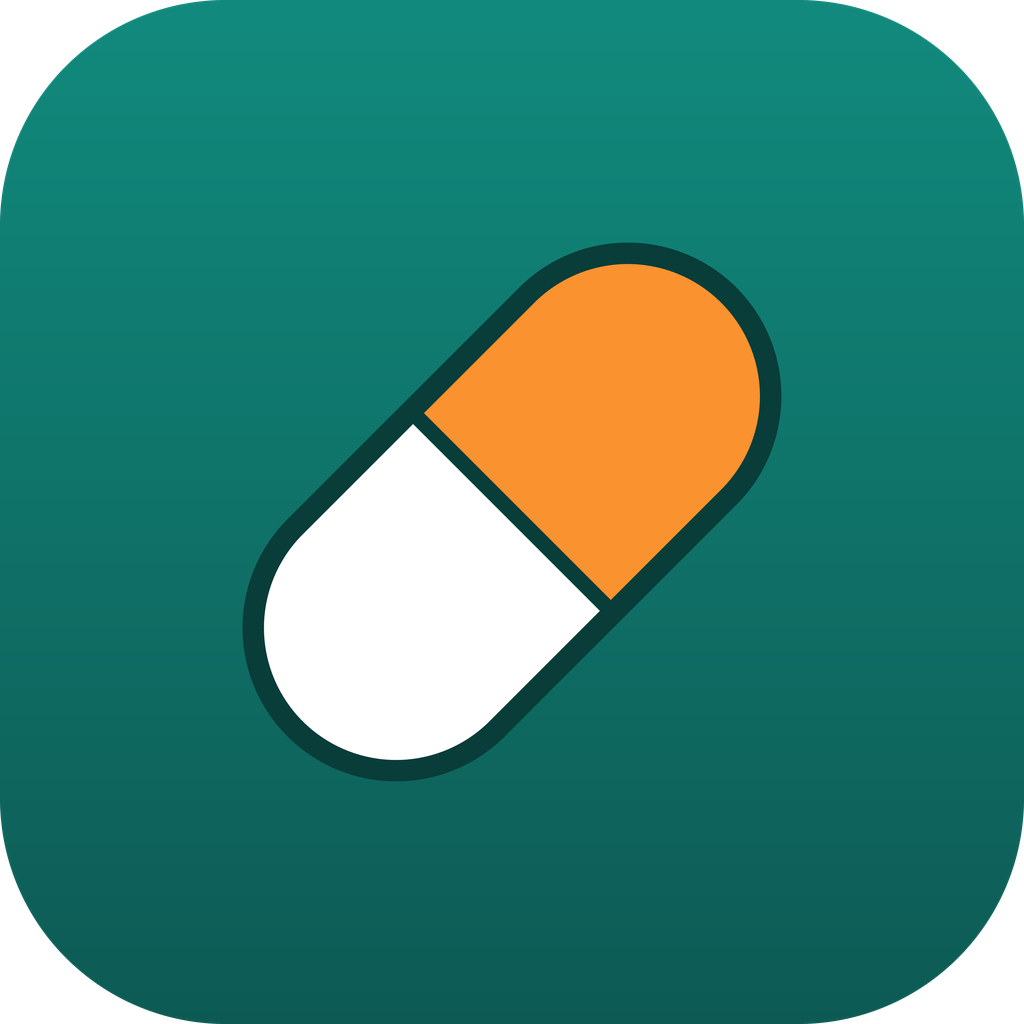
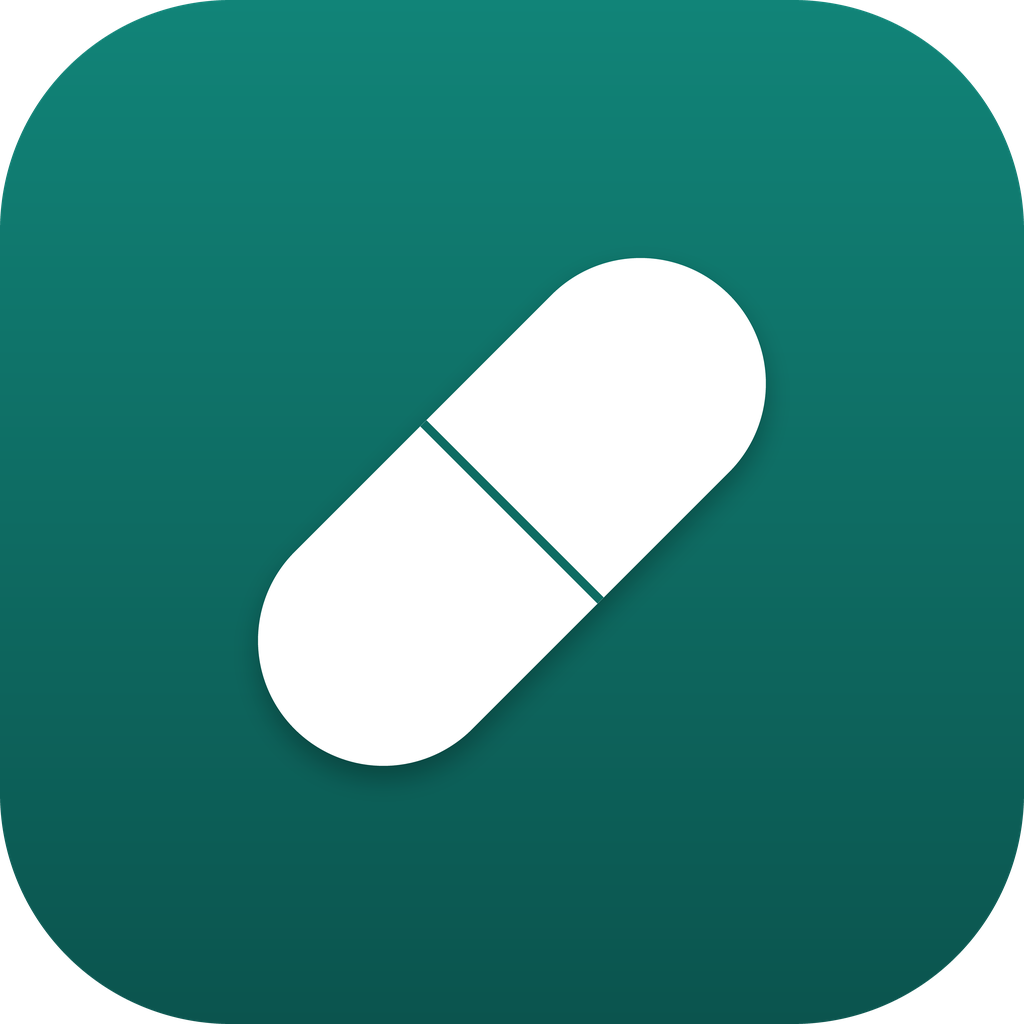
Icone du Bureau : un visuel plus sobre (v3.8)
La premiere version faisait dessin anime : gelule bicolore blanc/orange,
gros contour noir, motif occupant presque toute la tuile. Trois couleurs
et un liseré sombre sur une forme blanche, c'est le vocabulaire de
l'autocollant, pas celui d'une icone de bureau.

Le visuel passe en monochrome : un seul motif blanc sur l'aplat turquoise
de l'application, sans contour ni seconde couleur, et du vide autour. Le
relief vient d'une ombre portee tres douce plutot que d'un trait. Le seul
detail interieur — la jonction des deux demi-coques — est un trait fin
dans le ton du fond, qui disparait de lui-meme en 16 px ou la gelule doit
de toute facon se lire comme une seule forme.

Motif inchange : c'est toujours la gelule de l'onglet du navigateur.
Le fichier livre, les sept tailles et la repartition DIB / PNG ne bougent
pas non plus — seul le dessin change.

Claude-Session: https://claude.ai/code/session_01Wv1j3GUYQXLLcxAhUJVywE

Changed region(s): [[0.2188, 0.2188, 0.7812, 0.75], [0.4062, 0.75, 0.4375, 0.7812]]

diff --git a/outils/creer_icone.py b/outils/creer_icone.py
@@ -1,5 +1,5 @@
 # -*- coding: utf-8 -*-
-"""Fabrique l'icône de l'application (💊 sur fond turquoise).
+"""Fabrique l'icône de l'application : une gélule blanche sur turquoise.
 
 Outil de développement : le résultat (``pharmacie.ico`` et ``pharmacie.png``)
 est versionné dans le dépôt, de sorte que le poste de la pharmacie n'a
@@ -10,6 +10,11 @@ Le motif est **dessiné**, pas copié d'une police emoji : une police couleur
 (NotoColorEmoji) n'existe qu'en une seule taille de bitmap, et la réduction à
 16 px — la taille utilisée dans la barre des tâches Windows — donne une bouillie
 illisible. Un tracé vectoriel reste net à toutes les tailles.
+
+Parti pris graphique : **monochrome**. Un seul motif blanc sur l'aplat
+turquoise de l'application, sans contour noir ni seconde couleur, et du vide
+autour. Le relief vient d'une ombre portée très douce, pas d'un trait — c'est
+ce qui distingue une icône d'un pictogramme de dessin animé.
 
 Usage :
 
@@ -23,19 +28,21 @@ import struct
 import sys
 from pathlib import Path
 
-from PIL import Image, ImageDraw
+from PIL import Image, ImageDraw, ImageFilter
 
 RACINE = Path(__file__).resolve().parent.parent
 
 #: Turquoise de l'application (bandeau et onglet actif) : le raccourci du
 #: bureau doit se reconnaître d'un coup d'œil comme « la même chose » que
-#: l'écran qui s'ouvre.
-FOND_HAUT = (17, 138, 125)
-FOND_BAS = (13, 90, 84)
+#: l'écran qui s'ouvre. Léger dégradé vertical, juste assez pour que la
+#: tuile ne soit pas plate.
+FOND_HAUT = (17, 132, 120)
+FOND_BAS = (11, 84, 78)
 
 BLANC = (255, 255, 255)
-AMBRE = (249, 146, 47)
-CONTOUR = (8, 61, 57)
+#: Séparation des deux demi-coques : un trait dans le ton du fond, jamais du
+#: noir — un liseré sombre sur une forme blanche fait aussitôt « autocollant ».
+SEPARATION = (13, 108, 99)
 
 #: Tailles inscrites dans le .ico. Windows pioche celle qui lui convient :
 #: 16 dans la barre des tâches, 32 dans l'explorateur, 256 en grandes
@@ -66,7 +73,7 @@ def _fond(cote: int) -> Image.Image:
 
     masque = Image.new("L", (cote, cote), 0)
     ImageDraw.Draw(masque).rounded_rectangle(
-        (0, 0, cote - 1, cote - 1), radius=round(cote * 0.22), fill=255)
+        (0, 0, cote - 1, cote - 1), radius=round(cote * 0.225), fill=255)
 
     image = Image.new("RGBA", (cote, cote), (0, 0, 0, 0))
     image.paste(degrade, (0, 0), masque)
@@ -74,48 +81,54 @@ def _fond(cote: int) -> Image.Image:
 
 
 def _gelule(longueur: int, epaisseur: int) -> Image.Image:
-    """Gélule horizontale : moitié blanche, moitié ambre, sur fond transparent.
+    """Gélule horizontale, blanche, sur fond transparent.
 
     Dessinée à plat puis tournée par l'appelant — une rotation de l'image
     entière est bien plus simple (et plus propre) qu'un tracé oblique.
     """
-    marge = round(epaisseur * 0.12)      # place pour le contour, non rogné
+    marge = 4                       # évite que la rotation rogne les bords
     taille = (longueur + 2 * marge, epaisseur + 2 * marge)
     boite = (marge, marge, marge + longueur - 1, marge + epaisseur - 1)
-    rayon = epaisseur // 2
-    milieu = marge + longueur // 2
-
-    # Les deux demi-coques sont découpées dans UNE seule silhouette, par
-    # masque : dessiner deux rectangles arrondis mitoyens laisserait un
-    # liseré transparent au raccord, visible dès la réduction en 32 px.
-    silhouette = Image.new("L", taille, 0)
-    ImageDraw.Draw(silhouette).rounded_rectangle(boite, radius=rayon, fill=255)
-    demi_droite = silhouette.copy()
-    ImageDraw.Draw(demi_droite).rectangle((0, 0, milieu, taille[1]), fill=0)
 
     image = Image.new("RGBA", taille, (0, 0, 0, 0))
-    image.paste(BLANC, mask=silhouette)
-    image.paste(AMBRE, mask=demi_droite)
-
-    # Le trait de séparation des deux demi-coques, puis le contour général :
-    # sans eux, la gélule blanche se fond dans les fortes réductions.
     trace = ImageDraw.Draw(image)
-    trace.line((milieu, boite[1], milieu, boite[3]),
-               fill=CONTOUR, width=round(epaisseur * 0.05))
-    trace.rounded_rectangle(boite, radius=rayon, outline=CONTOUR,
-                            width=round(epaisseur * 0.07))
+    trace.rounded_rectangle(boite, radius=epaisseur // 2, fill=BLANC)
+
+    # Le seul détail intérieur : la jonction des deux demi-coques. Un trait
+    # fin, dans le ton du fond — il disparaît de lui-même en 16 px, où la
+    # gélule doit de toute façon se lire comme une seule forme.
+    milieu = marge + longueur // 2
+    trace.line((milieu, boite[1] + 1, milieu, boite[3] - 1),
+               fill=SEPARATION, width=max(2, round(epaisseur * 0.035)))
     return image
+
+
+def _ombre(motif: Image.Image, cote: int) -> tuple:
+    """Ombre portée très douce du motif, et son décalage vertical.
+
+    Elle détache la gélule du fond sans ajouter le moindre trait : c'est ce
+    qui remplace le contour noir de la première version.
+    """
+    ombre = Image.new("RGBA", motif.size, (0, 0, 0, 0))
+    ombre.paste((0, 0, 0, 70), mask=motif.split()[3])
+    return (ombre.filter(ImageFilter.GaussianBlur(cote * 0.012)),
+            round(cote * 0.012))
 
 
 def construire(cote: int = COTE) -> Image.Image:
     """Icône complète, en RGBA, au côté demandé."""
     grand = cote * SUR_ECHANTILLON
-    image = _fond(grand)
 
-    gelule = _gelule(round(grand * 0.62), round(grand * 0.30))
+    gelule = _gelule(round(grand * 0.60), round(grand * 0.245))
     gelule = gelule.rotate(45, resample=Image.BICUBIC, expand=True)
-    image.alpha_composite(gelule, (
-        (grand - gelule.width) // 2, (grand - gelule.height) // 2))
+    motif = Image.new("RGBA", (grand, grand), (0, 0, 0, 0))
+    motif.alpha_composite(gelule, ((grand - gelule.width) // 2,
+                                   (grand - gelule.height) // 2))
+
+    image = _fond(grand)
+    ombre, decalage = _ombre(motif, grand)
+    image.alpha_composite(ombre, (0, decalage))
+    image.alpha_composite(motif)
 
     return image.resize((cote, cote), Image.LANCZOS)
 

diff --git a/app.py b/app.py
@@ -56,7 +56,7 @@ _journal = logging.getLogger("pharmacie.app")
 
 # Version affichée dans le bandeau : permet de vérifier d'un coup d'œil que
 # la bonne version tourne (utile après une mise à jour du dossier local).
-VERSION_APP = "3.7"
+VERSION_APP = "3.8"
 
 # Dossier des données de la pharmacie : celui du programme par défaut,
 # déplaçable par la variable d'environnement PHARMACIE_DONNEES (cf.

diff --git a/README.md b/README.md
@@ -501,6 +501,11 @@ Au **tout premier** lancement, `lancer.bat` pose sur le Bureau une icône
 turquoise de l'application. Un double-clic dessus ouvre l'utilitaire : plus
 besoin de retrouver le dossier.
 
+Le visuel est **monochrome** : un seul motif blanc sur l'aplat turquoise,
+sans contour ni seconde couleur, et du vide autour. Le relief vient d'une
+ombre portée très douce, pas d'un trait — un liseré sombre sur une forme
+blanche fait aussitôt « autocollant ».
+
 - L'icône a été supprimée par erreur ? Double-cliquez sur
   **`creer-raccourci.bat`**, elle revient.
 - Elle n'est **pas** recréée toute seule à chaque démarrage : un témoin
